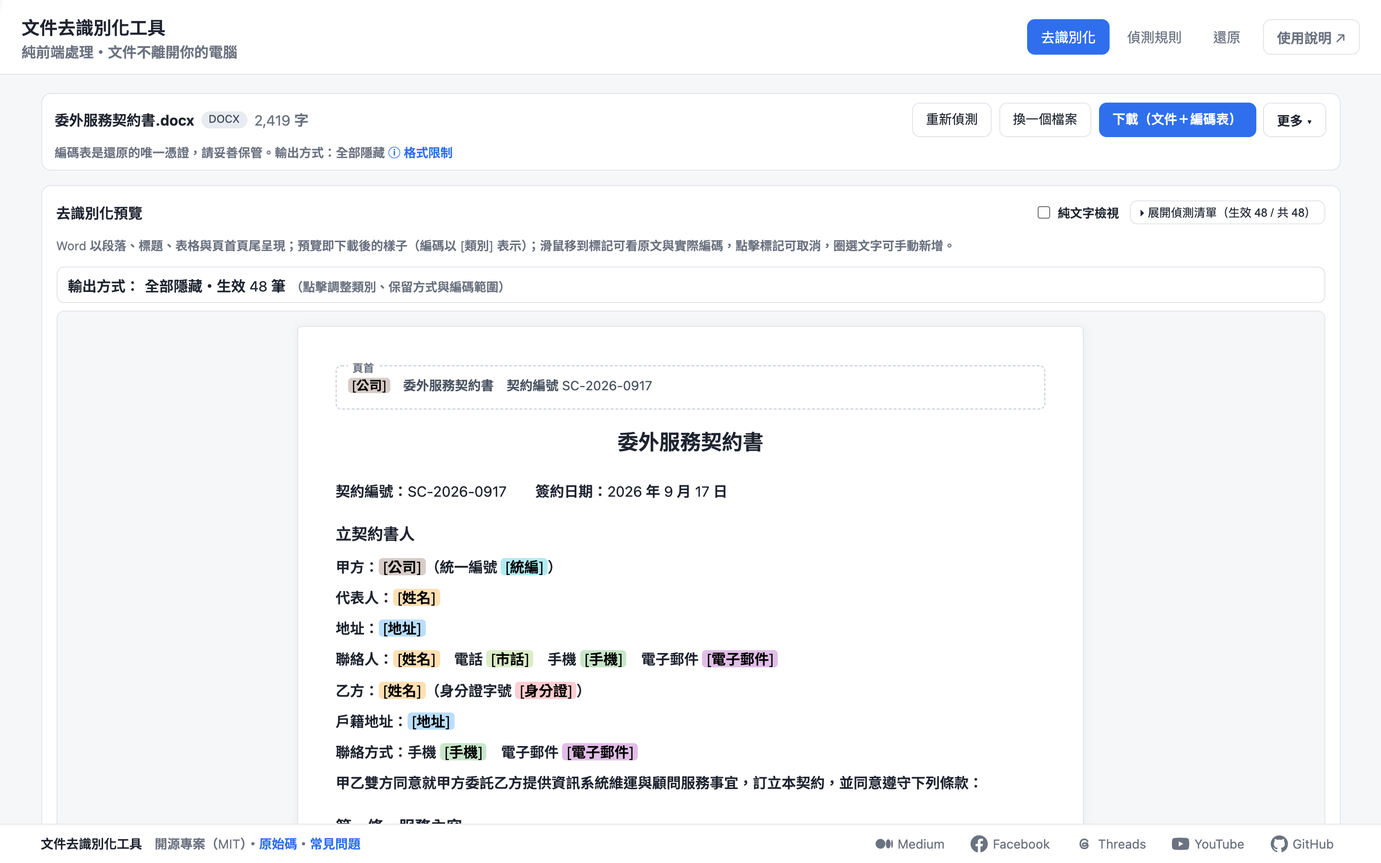
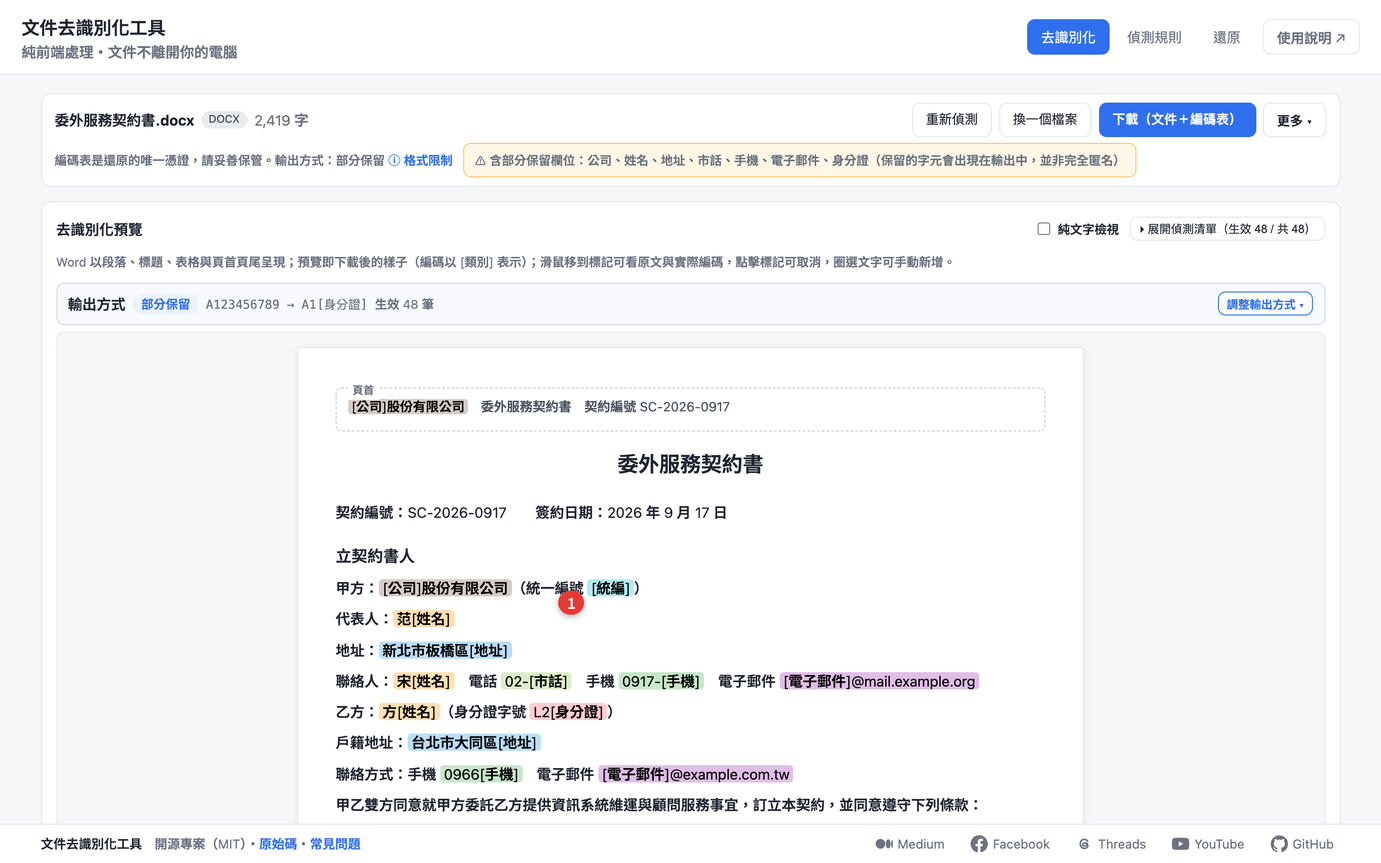
feat(ux): 預設改為部分保留並採保守標準，展開按鈕更易辨識
- 預設輸出方式改為「部分保留」（選項順序：部分保留、全部隱藏、自訂）
- 部分保留標準改保守：姓氏、身分證前 2 碼、手機前 4 碼、市話區碼、縣市＋鄉鎮市區、
  Email 網域、公司組織型態、識別碼第 1 碼；統編全部隱藏（previewSplit → standardSplit）
- 輸出方式摘要列改為可辨識的控制項：模式標籤、範例、「調整輸出方式 ▾」按鈕、hover／focus 樣式
- 展開狀態的「收合 ▴」與「收合偵測清單」改為實心主色
- 重拍 README 截圖，更新 README、靜態說明與 FAQ、llms.txt 與 003 規格修訂

Claude-Session: https://claude.ai/code/session_01RDF51bfZ4eKZ2unyVVxU7F

Changed region(s): [[0.0312, 0.1556, 0.9688, 0.9644], [0.875, 0.3422, 0.9375, 0.3733]]

diff --git a/index.html b/index.html
@@ -136,7 +136,7 @@
             {
               "@type": "Question",
               "name": "去識別化後的資料還能拿來統計嗎？",
-              "acceptedAnswer": { "@type": "Answer", "text": "可以。預覽上方的「輸出方式」預設為「全部隱藏」；改選「自訂」可以逐類別保留部分字元，例如身分證保留前 2 碼（地區與性別）、Email 保留 @ 之後的網域、地址保留到縣市區，輸出如 A1[身分證:a3f9c2]，在 Excel 用 LEFT／RIGHT 就能分組統計，仍可用編碼表完整還原。多個檔案可以選擇整批共用編碼，或匯入上次的編碼表沿用舊編碼，讓同一個人在不同檔案中是同一個編碼。保留的字元越多越容易辨識出個人，請視接收對象斟酌。" }
+              "acceptedAnswer": { "@type": "Answer", "text": "可以。預覽上方的「輸出方式」預設為「部分保留」，只露出適合統計的字元，例如身分證前 2 碼（地區與性別）、Email 網域、地址的縣市區，輸出如 A1[身分證:a3f9c2]；改選「自訂」可以逐類別調整，在 Excel 用 LEFT／RIGHT 就能分組統計，仍可用編碼表完整還原。多個檔案可以選擇整批共用編碼，或匯入上次的編碼表沿用舊編碼，讓同一個人在不同檔案中是同一個編碼。保留的字元越多越容易辨識出個人，請視接收對象斟酌。" }
             },
             {
               "@type": "Question",
@@ -194,9 +194,9 @@
           <h3>使用方式</h3>
           <ol>
             <li>在「去識別化」頁籤拖入檔案或貼上文字，按「開始去識別化」。</li>
-            <li>在依原格式排版的預覽中檢視自動偵測結果：預覽就是下載後的樣子，編碼以類別名稱表示（如 <code>[姓名]</code>、<code>A12[身分證]9</code>），滑鼠停留可看原文與實際輸出標記。</li>
+            <li>在依原格式排版的預覽中檢視自動偵測結果：預覽就是下載後的樣子，編碼以類別名稱表示（如 <code>王[姓名]</code>、<code>A1[身分證]</code>），滑鼠停留可看原文與實際輸出標記。</li>
             <li>人工覆核：點擊標記取消誤判、在「輸出方式」的類別表整類取消、圈選文字新增漏抓的項目。</li>
-            <li>用預覽上方的「輸出方式」決定要露出多少：全部隱藏（預設）、部分保留（例如 <code>A12[身分證]9</code>），或自訂（逐類別保留前後幾碼、Email 網域、縣市區等，方便統計，可設為預設）。</li>
+            <li>用預覽上方的「輸出方式」決定要露出多少：部分保留（預設，例如 <code>A1[身分證]</code>，只露出適合統計的字元）、全部隱藏，或自訂（逐類別保留前後幾碼、Email 網域、縣市區等，方便統計，可設為預設）。</li>
             <li>按「下載（文件＋編碼表）」一次取得去識別化文件（與上傳相同格式，檔名加 <code>.deid</code>）與 CSV 編碼表；多個檔案可一鍵打包成 ZIP，也可選擇整批共用編碼或匯入上次的編碼表沿用編碼。</li>
             <li>需要復原時，到「還原」頁籤上傳去識別化文件與編碼表，即可下載還原檔。</li>
           </ol>
@@ -239,7 +239,7 @@
             </details>
             <details>
               <summary>去識別化後的資料還能拿來統計嗎？</summary>
-              <p>可以。預覽上方的「輸出方式」預設為「全部隱藏」；改選「自訂」可以逐類別保留部分字元，例如身分證保留前 2 碼（地區與性別）、Email 保留 @ 之後的網域、地址保留到縣市區，輸出如 A1[身分證:a3f9c2]，在 Excel 用 LEFT／RIGHT 就能分組統計，仍可用編碼表完整還原。多個檔案可以選擇整批共用編碼，或匯入上次的編碼表沿用舊編碼，讓同一個人在不同檔案中是同一個編碼。保留的字元越多越容易辨識出個人，請視接收對象斟酌。</p>
+              <p>可以。預覽上方的「輸出方式」預設為「部分保留」，只露出適合統計的字元，例如身分證前 2 碼（地區與性別）、Email 網域、地址的縣市區，輸出如 A1[身分證:a3f9c2]；改選「自訂」可以逐類別調整，在 Excel 用 LEFT／RIGHT 就能分組統計，仍可用編碼表完整還原。多個檔案可以選擇整批共用編碼，或匯入上次的編碼表沿用舊編碼，讓同一個人在不同檔案中是同一個編碼。保留的字元越多越容易辨識出個人，請視接收對象斟酌。</p>
             </details>
             <details>
               <summary>輸出的文件會保留原本的格式嗎？</summary>

diff --git a/src/ui/process-view.ts b/src/ui/process-view.ts
@@ -14,12 +14,12 @@ import { SAMPLES, samplesSection } from './samples';
 
 export const MAX_FILES = 10;
 
-/** 全部隱藏 hides every value; 部分保留 keeps the standard visible characters; 自訂 is set per category. */
+/** 部分保留 (default) keeps the standard statistics-friendly characters; 全部隱藏 hides every value; 自訂 is set per category. */
 type OutputMode = 'code' | 'preview' | 'custom';
-const OUTPUT_MODE_LABELS: Record<OutputMode, string> = { code: '全部隱藏', preview: '部分保留', custom: '自訂' };
+const OUTPUT_MODE_LABELS: Record<OutputMode, string> = { preview: '部分保留', code: '全部隱藏', custom: '自訂' };
 const OUTPUT_MODE_EXAMPLES: Record<OutputMode, string> = {
+  preview: 'A123456789 → A1[身分證]',
   code: 'A123456789 → [身分證]',
-  preview: 'A123456789 → A12[身分證]9',
   custom: '逐類別設定',
 };
 
@@ -68,7 +68,7 @@ const state: State = {
   sharedCodes: false,
   imported: null,
   sharedBook: null,
-  outputMode: 'code',
+  outputMode: 'preview',
   overrides: new Map(),
 };
 
@@ -459,7 +459,7 @@ function renderWorkspace(root: HTMLElement): HTMLElement {
       button(`${state.showList ? '▾ 收合' : '▸ 展開'}偵測清單（生效 ${active} / 共 ${d.items.length}）`, () => {
         state.showList = !state.showList;
         refresh();
-      }, 'btn btn-small list-toggle'),
+      }, `btn btn-small list-toggle${state.showList ? ' is-open' : ''}`),
     );
     ws.classList.toggle('workspace-with-list', state.showList);
     ws.classList.toggle('workspace-with-files', state.docs.length > 1);
@@ -491,8 +491,11 @@ function renderOutputPanel(root: HTMLElement): HTMLElement {
   });
   const active = state.docs.reduce((n, d) => n + d.items.filter((it) => it.active).length, 0);
   const box = el('details', { class: 'output-panel', open: state.panelOpen }) as HTMLDetailsElement;
+  // The summary must read as a control, not a caption: a mode pill plus an explicit 調整 ▾ button.
+  const action = el('span', { class: 'btn btn-small summary-action' }, state.panelOpen ? '收合 ▴' : '調整輸出方式 ▾');
   box.addEventListener('toggle', () => {
     state.panelOpen = box.open;
+    action.textContent = box.open ? '收合 ▴' : '調整輸出方式 ▾';
   });
   const saveDefault = () => {
     let config = loadConfig();
@@ -512,15 +515,18 @@ function renderOutputPanel(root: HTMLElement): HTMLElement {
     render(root);
   };
   const children: (HTMLElement | null)[] = [
-    el('summary', { class: 'output-panel-summary' },
-      el('strong', {}, '輸出方式：'),
-      `${OUTPUT_MODE_LABELS[state.outputMode]}・生效 ${active} 筆`,
-      state.sharedCodes || state.imported ? '・共用／沿用編碼' : '',
-      el('span', { class: 'muted small' }, '（點擊調整類別、保留方式與編碼範圍）'),
+    el('summary', { class: 'output-panel-summary', title: '調整輸出方式、類別與編碼範圍' },
+      el('span', { class: 'summary-main' },
+        el('strong', {}, '輸出方式'),
+        el('span', { class: 'mode-pill' }, OUTPUT_MODE_LABELS[state.outputMode]),
+        el('span', { class: 'mono small muted' }, OUTPUT_MODE_EXAMPLES[state.outputMode]),
+        el('span', { class: 'muted small' }, `生效 ${active} 筆${state.sharedCodes || state.imported ? '・共用／沿用編碼' : ''}`),
+      ),
+      action,
     ),
     el('div', { class: 'output-modes' }, ...radios),
     state.outputMode === 'preview'
-      ? el('p', { class: 'small notice notice-inline' }, '⚠ 部分保留會露出較多字元（例如手機 10 碼露出 7 碼），接收方較容易辨識出個人。')
+      ? el('p', { class: 'small notice notice-inline' }, '⚠ 部分保留只露出適合統計的字元（姓氏、身分證前 2 碼、手機前 4 碼、區碼、行政區、Email 網域、公司型態），但並非完全匿名；交給外部前請確認，或改選「全部隱藏」。')
       : null,
     renderCategoryTable(root),
     state.outputMode === 'custom'

diff --git a/src/core/retention.ts b/src/core/retention.ts
@@ -58,48 +58,37 @@ function afterDigit(value: string, n: number): number {
   return value.length;
 }
 
-/** Characters from the n-th last digit to the end, extended back over the separators before it. */
-function fromLastDigit(value: string, n: number): number {
-  let seen = 0;
-  for (let i = value.length - 1; i >= 0; i--) {
-    if (/\d/.test(value[i]) && ++seen === n) {
-      let j = i;
-      while (j > 0 && !/\d/.test(value[j - 1])) j--;
-      return value.length - j;
-    }
-  }
-  return value.length;
-}
-
-/** The characters the preview mask (core/mask.ts maskDisplay) leaves visible, per category. */
-export function previewSplit(category: Category, value: string): Split {
+/**
+ * The standard 部分保留: only the part of each value that is useful for statistics and weak for
+ * re-identification (surname, ID region + sex, mobile carrier prefix, area code, district, email
+ * domain, organisation type, first character of an identifier). 統編 stays fully hidden.
+ */
+export function standardSplit(category: Category, value: string): Split {
   switch (category) {
     case '姓名':
       return { head: COMPOUND_SURNAMES.some((s) => value.startsWith(s)) ? 2 : 1, tail: 0 };
     case '身分證':
-      return { head: 3, tail: 1 };
+      return { head: 2, tail: 0 };
     case '手機':
-      return { head: afterDigit(value, 4), tail: fromLastDigit(value, 3) };
-    case '市話':
-      return { head: afterDigit(value, 2), tail: fromLastDigit(value, 2) };
-    case '地址': {
-      const m = value.match(/^(.*?[市縣])?(.*?[鄉鎮市區])?/u);
-      const prefix = (m?.[1] ?? '').length + (m?.[2] ?? '').length;
-      return { head: prefix > 0 && prefix < value.length ? prefix : 3, tail: 0 };
+      return { head: afterDigit(value, 4), tail: 0 };
+    case '市話': {
+      const area = value.match(/^(?:\(0\d{1,3}\)|0\d{1,3}[-\s])/)?.[0];
+      return { head: area ? area.length : afterDigit(value, 2), tail: 0 };
     }
+    case '地址':
+      return rawSplit(value, { mode: 'district' }, category);
     case '電子郵件': {
       const at = value.indexOf('@');
-      return at > 0 ? { head: Math.min(2, at), tail: value.length - at } : { head: 2, tail: 0 };
+      return at > 0 ? { head: 0, tail: value.length - at } : NONE;
     }
     case '公司': {
       const m = value.match(COMPANY_MASK_RE);
-      if (m) return { head: m[2] ? 2 : 1, tail: m[3].length };
-      return { head: 2, tail: 0 };
+      return m ? { head: 0, tail: m[3].length } : NONE;
     }
     case '統編':
-      return { head: 2, tail: 1 };
+      return NONE;
     default:
-      return { head: 3, tail: 0 };
+      return { head: 1, tail: 0 };
   }
 }
 
@@ -108,7 +97,7 @@ function rawSplit(value: string, r: Retention, category: Category): Split {
     case 'none':
       return NONE;
     case 'preview':
-      return previewSplit(category, value);
+      return standardSplit(category, value);
     case 'ends':
       return { head: r.head, tail: r.tail };
     case 'delim': {
@@ -154,7 +143,7 @@ export interface RetentionCheck {
 /** Validates a retention setting against the rule's example value (FR-013–FR-015). */
 export function checkRetention(example: string, r: Retention, category: Category = '識別碼'): RetentionCheck {
   const warnings: string[] = [];
-  if (r.mode === 'preview') warnings.push('部分保留（標準）會露出較多字元（例如手機 10 碼露出 7 碼），接收方較容易辨識出個人。');
+  if (r.mode === 'preview') warnings.push('部分保留會露出部分字元（例如身分證前 2 碼、手機前 4 碼），並非完全匿名。');
   if (r.mode === 'ends') {
     if (!Number.isInteger(r.head) || !Number.isInteger(r.tail) || r.head < 0 || r.tail < 0) return { error: '保留位數必須是 0 以上的整數', warnings };
     if (r.head > 0 && r.tail > 0) warnings.push('前後同時保留，搭配其他欄位時較容易辨識出個人。');

diff --git a/src/styles.css b/src/styles.css
@@ -377,8 +377,16 @@ body:has(.site-info-dialog[open]) { overflow: hidden; }
 .tag-kept { background: #eef3ff; color: var(--primary); }
 .check-label { display: inline-flex; align-items: center; gap: 0.35rem; cursor: pointer; }
 .preview-head-tools { display: flex; align-items: center; gap: 0.75rem; flex-wrap: wrap; }
-.output-panel-summary { cursor: pointer; display: flex; flex-wrap: wrap; align-items: baseline; gap: 0.35rem; }
+.output-panel-summary { cursor: pointer; list-style: none; display: flex; align-items: center; justify-content: space-between; gap: 0.75rem; margin: -0.5rem -0.75rem; padding: 0.55rem 0.75rem; border-radius: 8px; }
+.output-panel-summary::-webkit-details-marker { display: none; }
+.output-panel-summary:hover { background: var(--bg); }
+.output-panel-summary:hover .summary-action { border-color: var(--primary); color: var(--primary); }
+.output-panel-summary:focus-visible { outline: 2px solid var(--primary); outline-offset: 2px; }
 .output-panel[open] .output-panel-summary { margin-bottom: 0.5rem; }
+.summary-main { display: flex; flex-wrap: wrap; align-items: center; gap: 0.5rem; min-width: 0; }
+.mode-pill { background: #eef3ff; color: var(--primary); font-weight: 600; font-size: 0.85rem; padding: 0.1rem 0.6rem; border-radius: 999px; }
+.summary-action { flex-shrink: 0; border-color: var(--primary); color: var(--primary); font-weight: 600; }
+.output-panel:not([open]) { background: #f8faff; border-color: #c9d6f5; }
 .output-modes { display: flex; flex-wrap: wrap; gap: 0.5rem; margin-bottom: 0.5rem; }
 .mode-option { display: flex; align-items: flex-start; gap: 0.4rem; border: 1px solid var(--border); border-radius: 8px; padding: 0.45rem 0.7rem; cursor: pointer; }
 .mode-option > span { display: flex; flex-direction: column; gap: 0.1rem; }
@@ -396,9 +404,14 @@ body:has(.site-info-dialog[open]) { overflow: hidden; }
 .menu-item:hover { background: var(--bg); }
 @media (max-width: 700px) {
   .mode-option { flex: 1 1 100%; }
+  .output-panel-summary { margin: -0.5rem; padding: 0.5rem; }
   .menu { flex: 1 1 auto; }
   .menu > summary { display: block; text-align: center; }
   .menu { flex-basis: 100%; }
   .menu-list { position: static; margin-top: 0.3rem; box-shadow: none; min-width: 0; }
   .menu-item { white-space: normal; }
 }
+/* Expand/collapse toggles turn solid while open so the control that closes the section is easy to find. */
+.output-panel[open] .summary-action,
+.output-panel[open] .output-panel-summary:hover .summary-action,
+.list-toggle.is-open { background: var(--primary); border-color: var(--primary); color: var(--primary-ink); }

diff --git a/tests/unit/retention.test.ts b/tests/unit/retention.test.ts
@@ -154,18 +154,23 @@ describe('shared and imported codes', () => {
   });
 });
 
-describe('preview-style output (部分保留)', () => {
+describe('standard 部分保留 (default output mode)', () => {
   const cases: [string, string, RegExp][] = [
     ['姓名', '王小明', /^王\[姓名:\w{6}\]$/],
-    ['身分證', 'A123456789', /^A12\[身分證:\w{6}\]9$/],
-    ['手機', '0912-345-678', /^0912-\[手機:\w{6}\]-678$/],
-    ['市話', '(02)2712-3456', /^\(02\)\[市話:\w{6}\]56$/],
+    ['姓名', '歐陽志明', /^歐陽\[姓名:\w{6}\]$/],
+    ['身分證', 'A123456789', /^A1\[身分證:\w{6}\]$/],
+    ['手機', '0912-345-678', /^0912-\[手機:\w{6}\]$/],
+    ['手機', '0912345678', /^0912\[手機:\w{6}\]$/],
+    ['市話', '(02)2712-3456', /^\(02\)\[市話:\w{6}\]$/],
+    ['市話', '037-123456', /^037-\[市話:\w{6}\]$/],
+    ['市話', '0227123456', /^02\[市話:\w{6}\]$/],
     ['地址', '台北市信義區市府路45號8樓', /^台北市信義區\[地址:\w{6}\]$/],
-    ['電子郵件', 'amy.chen@gmail.com', /^am\[電子郵件:\w{6}\]@gmail\.com$/],
-    ['公司', '築夢實業股份有限公司', /^築夢\[公司:\w{6}\]股份有限公司$/],
-    ['統編', '04595257', /^04\[統編:\w{6}\]7$/],
+    ['電子郵件', 'amy.chen@gmail.com', /^\[電子郵件:\w{6}\]@gmail\.com$/],
+    ['公司', '築夢實業股份有限公司', /^\[公司:\w{6}\]股份有限公司$/],
+    ['統編', '04595257', /^\[統編:\w{6}\]$/],
+    ['識別碼', 'EMP-004521', /^E\[識別碼:\w{6}\]$/],
   ];
-  it.each(cases)('%s %s keeps what the preview mask shows', (category, value, expected) => {
+  it.each(cases)('%s %s keeps only the statistics-friendly part', (category, value, expected) => {
     const items: RedactionItem[] = [];
     const it = addManualItem(items, value, 0, value.length, category as never, new CodeBook(), { mode: 'preview' });
     expect(outputFor(it)).toMatch(expected);
@@ -179,7 +184,7 @@ describe('resplitItems', () => {
     const items = detect(text, BUILTIN_PATTERNS, book);
     resplitItems(items, book, () => ({ mode: 'preview' }));
     const preview = applyRedactions(text, items);
-    expect(preview.redactedText).toMatch(/^王\[姓名:\w{6}\] A12\[身分證:\w{6}\]9 0912-\[手機:\w{6}\]-678$/);
+    expect(preview.redactedText).toMatch(/^王\[姓名:\w{6}\] A1\[身分證:\w{6}\] 0912-\[手機:\w{6}\]$/);
     expect(restore(preview.redactedText, preview.mapping).restoredText).toBe(text);
 
     resplitItems(items, book, () => undefined);

diff --git a/scripts/make-screenshots.ts b/scripts/make-screenshots.ts
@@ -102,7 +102,7 @@ await page.evaluate(() => (document.querySelector('.toolbar-actions .btn-ghost')
 await new Promise((r) => setTimeout(r, 300));
 await upload(page, '.process-view input[type=file]', 'examples/01-核心流程/委外服務契約書.docx');
 
-// 2d/2e. Output settings panel: 部分保留, then 自訂 per category (preview shows the output, codes as [類別])
+// 2d/2e. Output settings panel: 部分保留 (the default), then 自訂 per category (preview shows the output, codes as [類別])
 const setPanel = (open: boolean) => page.evaluate((v) => ((document.querySelector('.output-panel') as HTMLDetailsElement).open = v), open);
 await setPanel(true);
 await page.click('input[name=output-mode][value=preview]');
@@ -132,8 +132,8 @@ await setPanel(true);
 await page.evaluate(() => [...document.querySelectorAll('.output-table tr')].find((tr) => tr.textContent!.includes('身分證'))!.classList.add('shot-row'));
 await annotate(page, [['.output-table .shot-row', 1], ['.output-panel .form-actions', 2], ['.status-line .notice', 3]]);
 await shot(page, '02e-output-custom');
-// back to 全部隱藏 with the panel collapsed for the remaining steps
-await page.click('input[name=output-mode][value=code]');
+// back to the default 部分保留 with the panel collapsed for the remaining steps
+await page.click('input[name=output-mode][value=preview]');
 await new Promise((r) => setTimeout(r, 300));
 await setPanel(false);
 

diff --git a/src/core/types.ts b/src/core/types.ts
@@ -11,7 +11,7 @@ export type Retention =
   | { mode: 'surname' }
   | { mode: 'city' }
   | { mode: 'district' }
-  /** Keep what the on-screen preview mask shows (王OO, A12******9…) with the code in place of the stars. */
+  /** The standard 部分保留 per category (see core/retention.ts standardSplit), e.g. A1[身分證], 0912-[手機]. */
   | { mode: 'preview' };
 
 export interface Pattern {

diff --git a/README.md b/README.md
@@ -2,7 +2,7 @@
 
 [![CI & Deploy](https://github.com/dean9703111/data-deidentification/actions/workflows/deploy.yml/badge.svg)](https://github.com/dean9703111/data-deidentification/actions/workflows/deploy.yml)
 [![Live Demo](https://img.shields.io/badge/demo-GitHub%20Pages-2f6fed?logo=github)](https://deanlin.net/data-deidentification/)
-[![Tests](https://img.shields.io/badge/tests-264%20passing-2e9e5b)](#測試與品質)
+[![Tests](https://img.shields.io/badge/tests-269%20passing-2e9e5b)](#測試與品質)
 ![Client-side only](https://img.shields.io/badge/privacy-100%25%20client--side-8e44ad)
 [![License: MIT](https://img.shields.io/badge/license-MIT-yellow.svg)](LICENSE)
 
@@ -58,11 +58,11 @@
 
 - **多格式輸入**：`.pdf`（含文字層）、`.docx`、`.xlsx`、`.txt`、`.md`，或直接貼上文字；一次最多 10 個檔案混合處理。
 - **格式感知預覽**：Word 顯示段落／標題／表格／頁首頁尾，Excel 顯示工作表格線，PDF 逐頁依原始座標排版；可切換純文字檢視。
-- **所見即所得的預覽**：預覽就是下載後的樣子，編碼以類別名稱表示（如 `[姓名]`、`A12[身分證]9`），滑鼠停留顯示原文與實際輸出標記。
+- **所見即所得的預覽**：預覽就是下載後的樣子，編碼以類別名稱表示（如 `[姓名]`、`A1[身分證]`），滑鼠停留顯示原文與實際輸出標記。
 - **人工覆核**：點擊標記確認取消、在類別表整類取消、圈選文字手動新增、清單定位。
 - **九種內建類別**：姓名、身分證（檢核碼）、手機、市話、地址、電子郵件、公司／組織、統一編號（檢核碼）、自訂識別碼；規則可停用，自訂規則以 RegExp 新增並即時測試。
 - **可還原**：同一類別下完全相同的值共用同一個隨機編碼（手動新增亦同）；上傳去識別化文件＋CSV 即可完整還原，缺漏的編碼會列出警告。
-- **輸出方式可切換**：預覽上方的「輸出方式」可選 **全部隱藏**（預設）、**部分保留**（例如 `A12[身分證:7b21e8]9`）或 **自訂**（逐類別調整保留多少並可設為預設），整批檔案一起套用；預覽就是下載後的樣子。
+- **輸出方式可切換**：預覽上方的「輸出方式」可選 **部分保留**（預設，例如 `A1[身分證:7b21e8]`，只露出適合統計的字元）、**全部隱藏** 或 **自訂**（逐類別調整保留多少並可設為預設），整批檔案一起套用；預覽就是下載後的樣子。
 - **部分保留（方便統計）**：可逐類別保留前／後幾碼、分隔字元前後、姓氏、縣市或縣市＋鄉鎮市區，例如 `A1[身分證:a3f9c2]`、`[電子郵件:c882d1]@gmail.com`、`台北市信義區[地址:4e1a0b]`；保留的字元留在標記外，Excel 可直接用 LEFT／RIGHT 分組，仍可完整還原。設定時會即時預覽，保留過多時會在該列警告。
 - **跨檔案共用編碼**：可隨時切換「整批共用編碼」，或匯入上次的編碼表沿用舊編碼（例如每月資料串接），並可下載合併編碼表。
 - **打包輸出**：多檔時一鍵打包 ZIP（每個檔案的去識別化檔＋編碼表＋對照清單）。
@@ -121,8 +121,8 @@ npm run dev        # http://localhost:5173
 
 ![預覽](docs/screenshots/02-preview.png)
 
-1. **輸出方式**：平常收合成一行摘要（目前模式與生效筆數），點一下展開調整（見下方）。
-2. **預覽區**：依檔案格式呈現，Word 顯示段落、標題、表格與頁首頁尾（如上圖的 4 頁合約書）。**預覽就是下載後的樣子**，只是編碼以類別名稱表示：全部隱藏時是 `[姓名]`，部分保留時是 `A12[身分證]9`。
+1. **輸出方式**：平常收合成一行摘要（目前模式、範例與生效筆數），按右側的「調整輸出方式 ▾」展開（見下方）；展開後按鈕變成藍底的「收合 ▴」，偵測清單的展開按鈕也一樣。
+2. **預覽區**：依檔案格式呈現，Word 顯示段落、標題、表格與頁首頁尾（如上圖的 4 頁合約書）。**預覽就是下載後的樣子**，只是編碼以類別名稱表示：部分保留（預設）時是 `王[姓名]`、`A1[身分證]`，全部隱藏時是 `[姓名]`。
 3. **展開偵測清單**：清單預設收合；展開後列出每一筆的類別、原文與輸出，點擊任一筆會捲動到預覽中的位置並閃爍強調。
 4. **重新偵測**（規則變更後重跑，手動新增的項目會保留）／**換一個檔案**／**下載**／**更多**都在上方工具列。
 
@@ -130,8 +130,8 @@ npm run dev        # http://localhost:5173
 
 ![輸出方式：部分保留](docs/screenshots/02d-output-preview.png)
 
-1. 三選一，每個選項附範例：**全部隱藏**（預設，`A123456789 → [身分證]`）／**部分保留**（`A12[身分證]9`，露出與舊版預覽遮罩相同的字元）／**自訂**（逐類別設定）。
-2. 選部分保留時會提示風險：露出的字元較多（例如手機 10 碼露出 7 碼），接收方較容易辨識出個人。
+1. 三選一，每個選項附範例：**部分保留**（預設，`A123456789 → A1[身分證]`）／**全部隱藏**（`[身分證]`）／**自訂**（逐類別設定）。部分保留只露出適合統計、較難反查個人的部分：姓氏、身分證前 2 碼（地區＋性別）、手機前 4 碼（電信業者）、市話區碼、縣市＋鄉鎮市區、Email 網域、公司組織型態（如「股份有限公司」）、識別碼第 1 碼；統一編號全部隱藏。
+2. 部分保留並非完全匿名，面板會提示這一點；交給外部前請確認，或改選「全部隱藏」。
 3. **類別表**：每個類別一列，顯示筆數、套用的保留方式與範例輸出。取消勾選即整類不去識別化（套用到所有檔案）。
 
 選 **自訂** 時，可以逐類別調整保留多少：

diff --git a/specs/003-ux-simplification/spec.md b/specs/003-ux-simplification/spec.md
@@ -132,3 +132,13 @@
 
 - 一次觸發兩個下載在主流瀏覽器可行（可能出現一次「允許多個下載」詢問）。
 - 規則頁的保留編輯器（含套用建議）移除；內建建議值不再在 UI 提供，可改用「部分保留」模式一鍵取得常見保留方式。
+
+## 修訂 2026-09-26：預設「部分保留」與保守標準、可辨識的展開控制
+
+使用者回饋：「部分保留」作為預設比較好理解；收合的輸出方式摘要看起來不像可以點擊。
+
+- **FR-015**: 預設輸出方式 MUST 為「部分保留」，選項順序為部分保留、全部隱藏、自訂。
+- **FR-016**: 「部分保留（標準）」MUST 只露出適合統計、較難反查個人的部分：姓名保留姓氏（含複姓）、身分證前 2 碼、手機前 4 碼、市話區碼、地址縣市＋鄉鎮市區、Email 網域（`@` 之後）、公司組織型態後綴、識別碼第 1 碼；統一編號全部隱藏。取代先前「與預覽遮罩相同」的定義（原本手機會露出 10 碼中的 7 碼）。
+- **FR-017**: 由於預設即含部分保留，工具列 MUST 持續以警示樣式列出含部分保留的類別，輸出方式面板 MUST 說明「並非完全匿名，交給外部前請確認或改選全部隱藏」。
+- **FR-018**: 收合的輸出方式摘要 MUST 看得出可操作：模式以標籤呈現並附範例、右側有明確的「調整輸出方式 ▾」按鈕（展開後為「收合 ▴」）、整列有 hover 與鍵盤焦點樣式，收合時以淡藍底色區隔。
+- **FR-019**: 展開／收合類按鈕（「調整輸出方式 ▾／收合 ▴」、「展開／收合偵測清單」）在展開狀態 MUST 改為實心主色（藍底白字），收合時為外框樣式，方便辨識收合的位置。

diff --git a/specs/003-ux-simplification/tasks.md b/specs/003-ux-simplification/tasks.md
@@ -29,3 +29,10 @@
 - [x] T010 CSS 與 RWD 檢查（375／768／1280）
 - [x] T011 更新截圖腳本並重拍；更新 README、index.html 說明與 llms.txt
 - [x] T012 npm test 與 npm run build
+
+## Phase 7: 修訂 2026-09-26
+
+- [x] T013 預設輸出方式改為部分保留；standardSplit 取代 previewSplit，改用保守標準（src/core/retention.ts、src/ui/process-view.ts），並更新測試
+- [x] T014 輸出方式摘要列改為明確的可操作樣式（模式標籤、範例、「調整輸出方式 ▾」按鈕、hover／focus）
+- [x] T015 重拍截圖；更新 README、index.html 說明與 FAQ、llms.txt
+- [x] T016 展開狀態的「收合 ▴」與「收合偵測清單」改為實心主色（FR-019）
